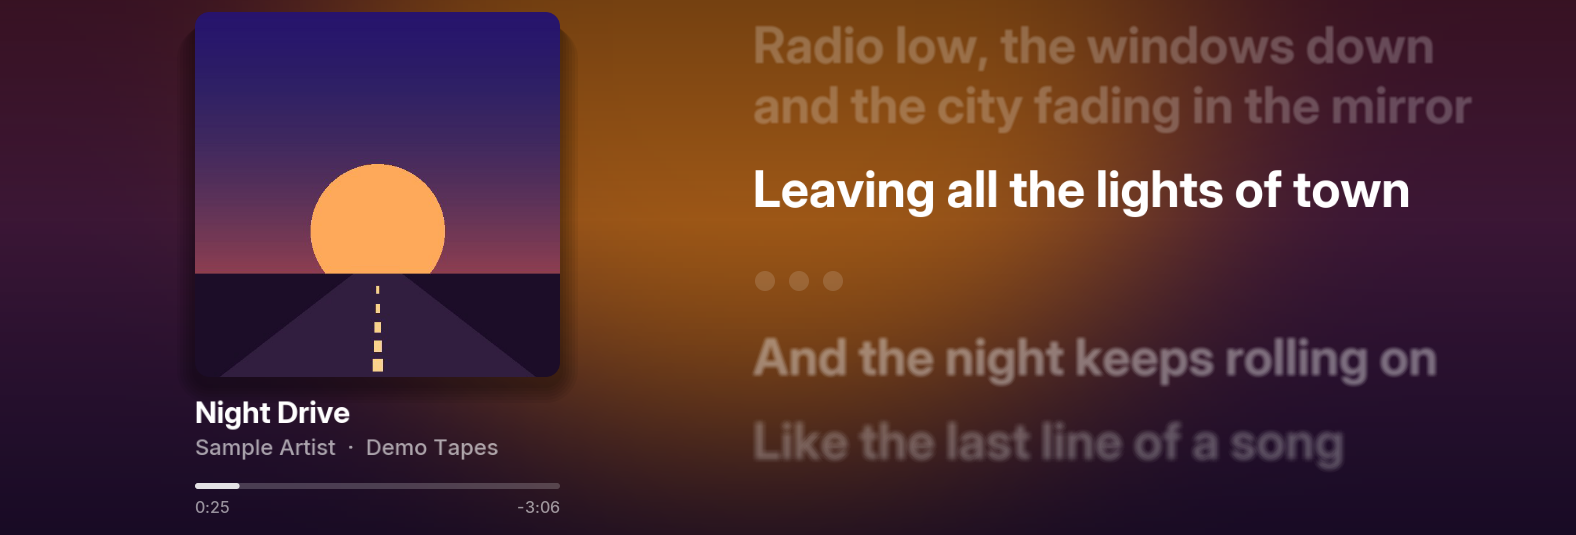
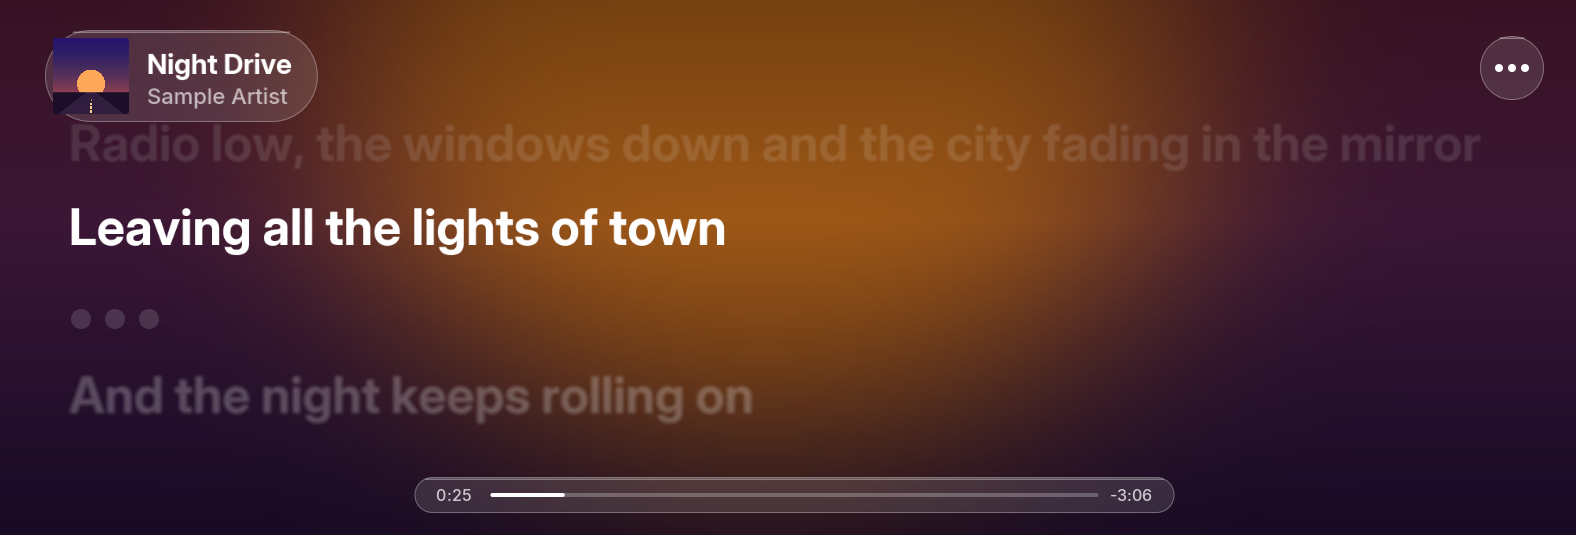
Car Lyrics 0.5.0: Glass look (iOS 26 Apple Music): cover and names in a glass capsule, lyrics full width, a slim glass progress pill, a round glass ⋯ button for Settings; no tabs in the header (Settings tab off, Probe tab only if asked for in Settings); Look: Glass or Classic

diff --git a/apps/aref_carlyrics/main.js b/apps/aref_carlyrics/main.js
@@ -35,7 +35,7 @@ const ART = require('./artwork');
 const http = require('./http');
 const HW = require('./kit/homewidget');
 
-const VERSION = '0.4.3';
+const VERSION = '0.5.0';
 const HOMEPAGE = 'https://github.com/arefahmad/idrive7-apps';
 const W = 1600, H = 520;
 const IFACES = [
@@ -181,6 +181,50 @@ mgu.run({
             if (ctx.onTab) ctx.onTab(guard('tab', (i) => { probe = i === 1; page = 0; vpage = 0; showButtons(); }));
 
             /** The layout in the safe area A: the cover centred in the left half, the lyrics in the right half. */
+            const glassOn = () => settings.get('style') !== 'classic';
+            /** iOS 26 Apple Music: a glass capsule with the cover and names top left, the lyrics full width under it,
+             * a slim glass progress pill at the bottom, a round ⋯ glass button top right (Settings). */
+            function geoGlass(A) {
+                const top = A.y + 120, bottom = A.bottom - 64;
+                return { A: A, glass: true, LX: A.x + 48, LW: A.w - 96, top: top, bottom: bottom };
+            }
+            function glassRect(cv, x, y, w, h, r) {
+                // Liquid Glass on a blurred backdrop: a light frosted fill, a brighter rim, a highlight along the top
+                cv.roundRect(x, y, w, h, r, G.withAlpha(WHITE, 0.12));
+                cv.strokeRoundRect(x, y, w, h, r, 1, G.withAlpha(WHITE, 0.3));
+                cv.roundRect(x + r * 0.6, y + 1.5, w - r * 1.2, 1.5, 1, G.withAlpha(WHITE, 0.35));
+            }
+            function openSettings() { try { const b = ui.rhmi && ui.rhmi.getByName('BTN_SETTINGS'); if (b && b.emit) b.emit('action', {}); } catch (e) { log.warn('settings: ' + e.message); } }
+            function glassChrome(cv, Q, a, P, now) {
+                const A = Q.A, B = { font: F_BOLD, literal: true }, M = { font: F_MED, literal: true };
+                // the capsule: cover, title, artist
+                const s = 76, cx = A.x + 24, cy = A.y + 18, tw = Math.min(620, Math.max(cv.textWidth(LyricsLib.fold(cur.title), 28, B), cv.textWidth(LyricsLib.fold(cur.artist || ''), 22, M)));
+                glassRect(cv, cx, cy, s + tw + 52, s + 16, (s + 16) / 2);
+                if (a) cv.image(ART_ID, cx + 8, cy + 8, s, s);
+                else cv.card(cx + 8, cy + 8, s, s, 12, [[0, P.art1], [1, P.art2]]);
+                cv.text(fit(cv, cur.title, 28, 620, B), cx + s + 26, cy + 44, 28, WHITE, B);
+                cv.text(fit(cv, cur.artist || '', 22, 620, M), cx + s + 26, cy + 74, 22, G.withAlpha(WHITE, 0.66), M);
+                // ⋯ (Settings), round glass, top right
+                const d = 64, mx = A.right - 24 - d, my = A.y + 24;
+                glassRect(cv, mx, my, d, d, d / 2);
+                for (let k = -1; k <= 1; k++) cv.circle(mx + d / 2 + k * 13, my + d / 2, 4, WHITE);
+                if (cv.own) FS.button(cv, 'more', mx, my, d, d, guard('more', openSettings), { r: d / 2, slop: 10 });
+                // progress: a slim glass pill with the times
+                const pos = Math.max(0, position(now) - offset()), dur = cur.duration || 0, pw = Math.min(760, A.w - 96), px = A.x + (A.w - pw) / 2, py = A.bottom - 50;
+                glassRect(cv, px, py, pw, 36, 18);
+                const bx = px + 76, bw = pw - 152;
+                cv.roundRect(bx, py + 16, bw, 4, 2, G.withAlpha(WHITE, 0.25));
+                if (dur) cv.roundRect(bx, py + 16, Math.max(4, Math.min(1, pos / dur) * bw), 4, 2, WHITE);
+                cv.text(mmss(pos), px + 22, py + 24, 16, G.withAlpha(WHITE, 0.75), M);
+                cv.text(dur ? '-' + mmss(dur - pos) : '', px + pw - 22, py + 24, 16, G.withAlpha(WHITE, 0.75), Object.assign({ align: 'right' }, M));
+                if (!clk && cv.own) {
+                    const bw2 = 220, bx2 = A.right - 24 - bw2, by2 = py - 4;
+                    glassRect(cv, bx2, by2, bw2, 44, 22);
+                    cv.text('Song just started', bx2 + bw2 / 2, by2 + 29, 18, WHITE, { align: 'center', font: F_BOLD, literal: true });
+                    FS.button(cv, 'sync', bx2, by2, bw2, 44, sync, { r: 22 });
+                }
+            }
+
             function geo(A) {
                 const S = Math.round(Math.max(240, Math.min(420, A.h - 150)));
                 const half = A.x + Math.round(A.w * 0.46);
@@ -285,7 +329,7 @@ mgu.run({
                     const shown = glide.i === -2 ? target : scrollOf(glide, 0, now);
                     glide = { i: i, from: shown, to: target, at: now, prev: glide.i };
                 }
-                const top = Q.A.y, bottom = Q.A.bottom, anchor = top + Math.round((bottom - top) * 0.3);
+                const top = Q.top || Q.A.y, bottom = Q.bottom || Q.A.bottom, anchor = top + Math.round((bottom - top) * (Q.glass ? 0.22 : 0.3));
                 const fadeIn = easeOut((now - glide.at) / FADE_MS);
                 cv.clip(Q.LX - 20, top, W - (Q.LX - 20), bottom - top);
                 const first = Math.max(0, i - 3);
@@ -334,7 +378,7 @@ mgu.run({
                 }
             }
             function drawPlain(cv, Q, text) {
-                cv.text('Lyrics (not synced to the song)', Q.LX, Q.A.y + 34, 18, G.withAlpha(WHITE, 0.6), { font: F_MED, literal: true });
+                cv.text('Lyrics (not synced to the song)', Q.LX, (Q.top || Q.A.y) + 34, 18, G.withAlpha(WHITE, 0.6), { font: F_MED, literal: true });
                 let y = Q.A.y + 80;
                 text.filter(Boolean).some((s, k) => {
                     const rows = wrap(cv, s, 32, Q.LW, 2, { font: F_BOLD, literal: true });
@@ -367,7 +411,7 @@ mgu.run({
                     cv.fillRect(0, 0, w, fullH, c);
                     for (let i = 0; i < fade; i += 3) cv.fillRect(w + i, 0, 3, fullH, G.withAlpha(c, 1 - (i + 1.5) / fade));
                 };
-                if (cv.chrome) G.frame(cv, ctx.theme(), ['Lyrics', 'Probe'], 0, []);
+                if (cv.chrome) G.frame(cv, ctx.theme(), settings.get('probe_tab') ? ['Lyrics', 'Probe'] : [], 0, []);   // no tabs: the ⋯ button opens Settings
                 if (!cur) follow();
                 if (!cur) {
                     const P = nameColours('Car Lyrics');
@@ -376,9 +420,9 @@ mgu.run({
                     cv.text('Play a song on your phone', A.x + A.w / 2, cy - 6, 40, WHITE, { font: F_BOLD, align: 'center', literal: true });
                     cv.text('Apple Music over CarPlay, or any app over Bluetooth. The lyrics show up here.', A.x + A.w / 2, cy + 40, 22, G.withAlpha(WHITE, 0.62), { align: 'center', font: F_MED, literal: true });
                 } else {
-                    const P = nameColours(cur.title + cur.artist), a = artFor(), Q = geo(A);
+                    const P = nameColours(cur.title + cur.artist), a = artFor(), Q = glassOn() ? geoGlass(A) : geo(A);
                     backdrop(cv, a, now, P, fullH); sideBand(a, P);
-                    coverColumn(cv, Q, a, P, now);
+                    if (Q.glass) glassChrome(cv, Q, a, P, now); else coverColumn(cv, Q, a, P, now);
                     const lyr = lyrics.get({ title: cur.title, artist: cur.artist, album: cur.album, duration: cur.duration });
                     if (lyr.state === 'synced' && lyr.lines.length) drawSynced(cv, Q, lyr.lines, now);
                     else if (lyr.state === 'plain') drawPlain(cv, Q, lyr.text);
